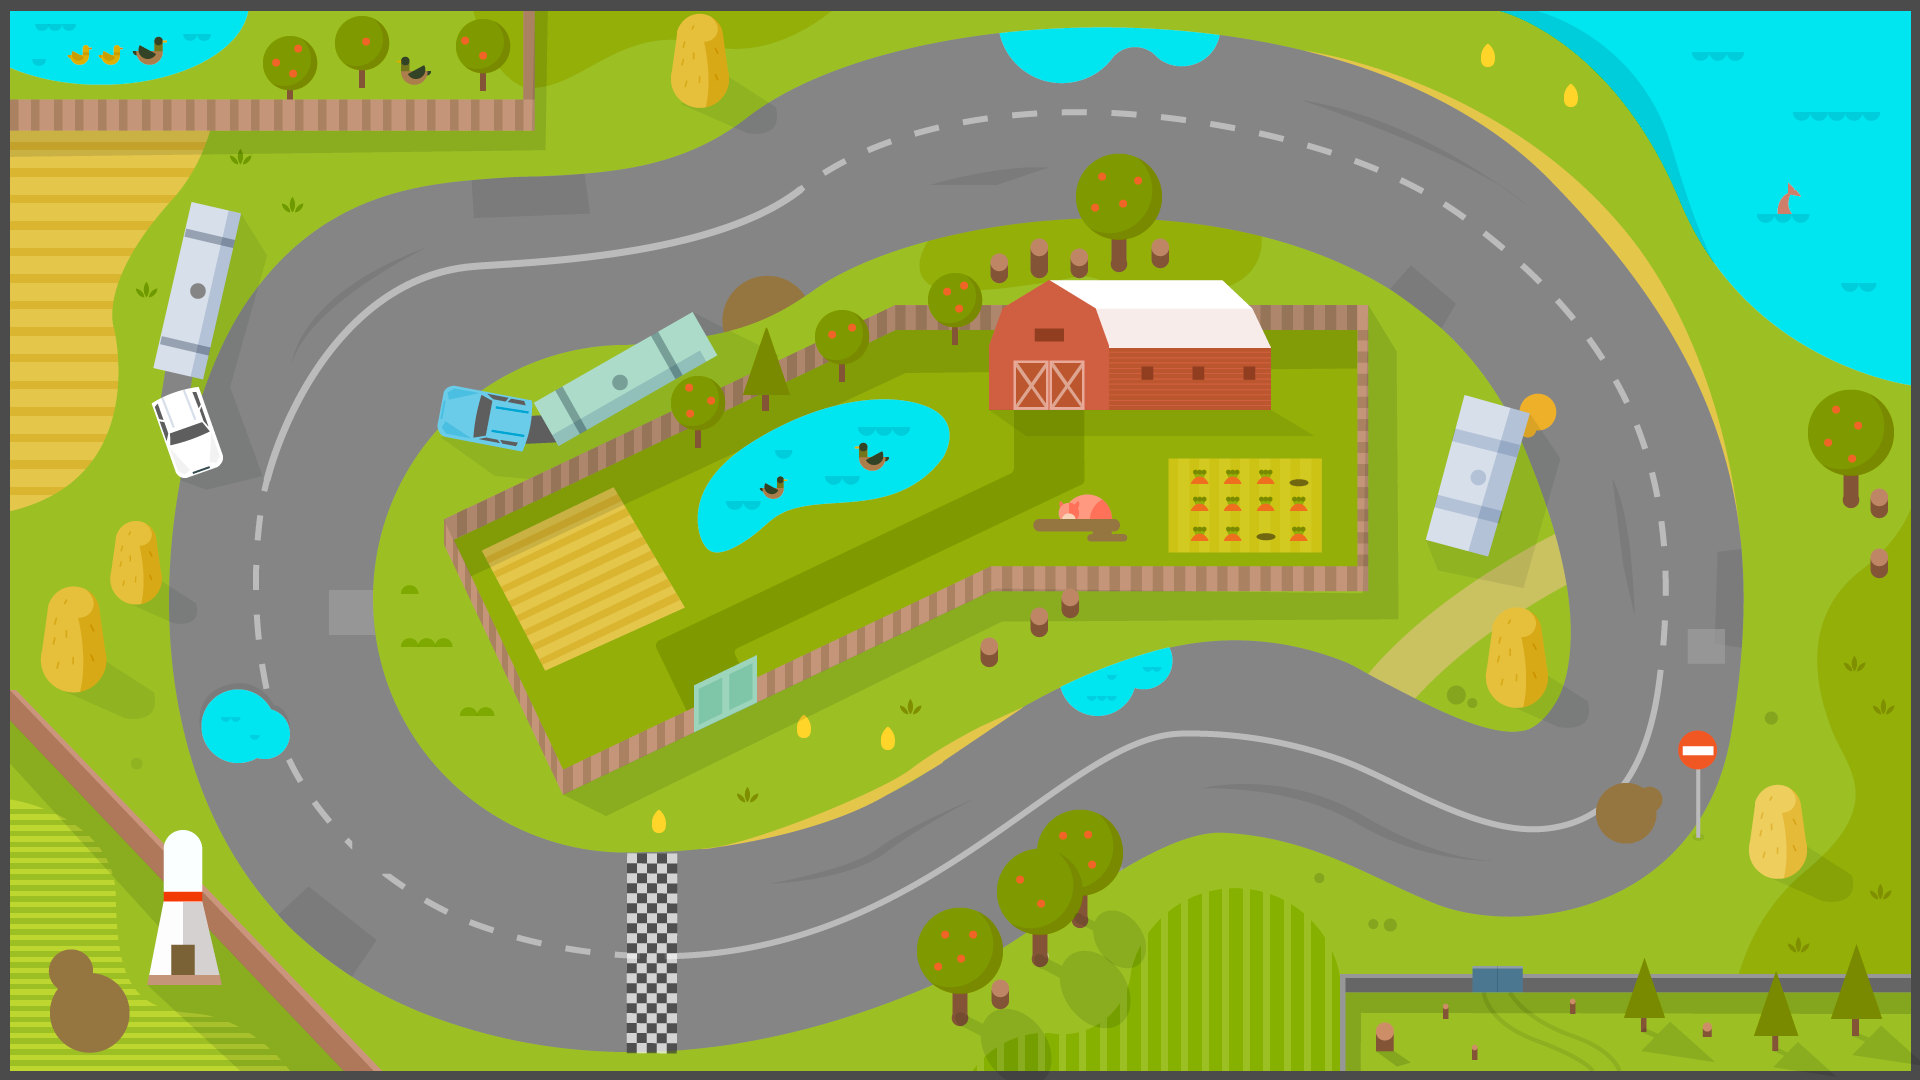
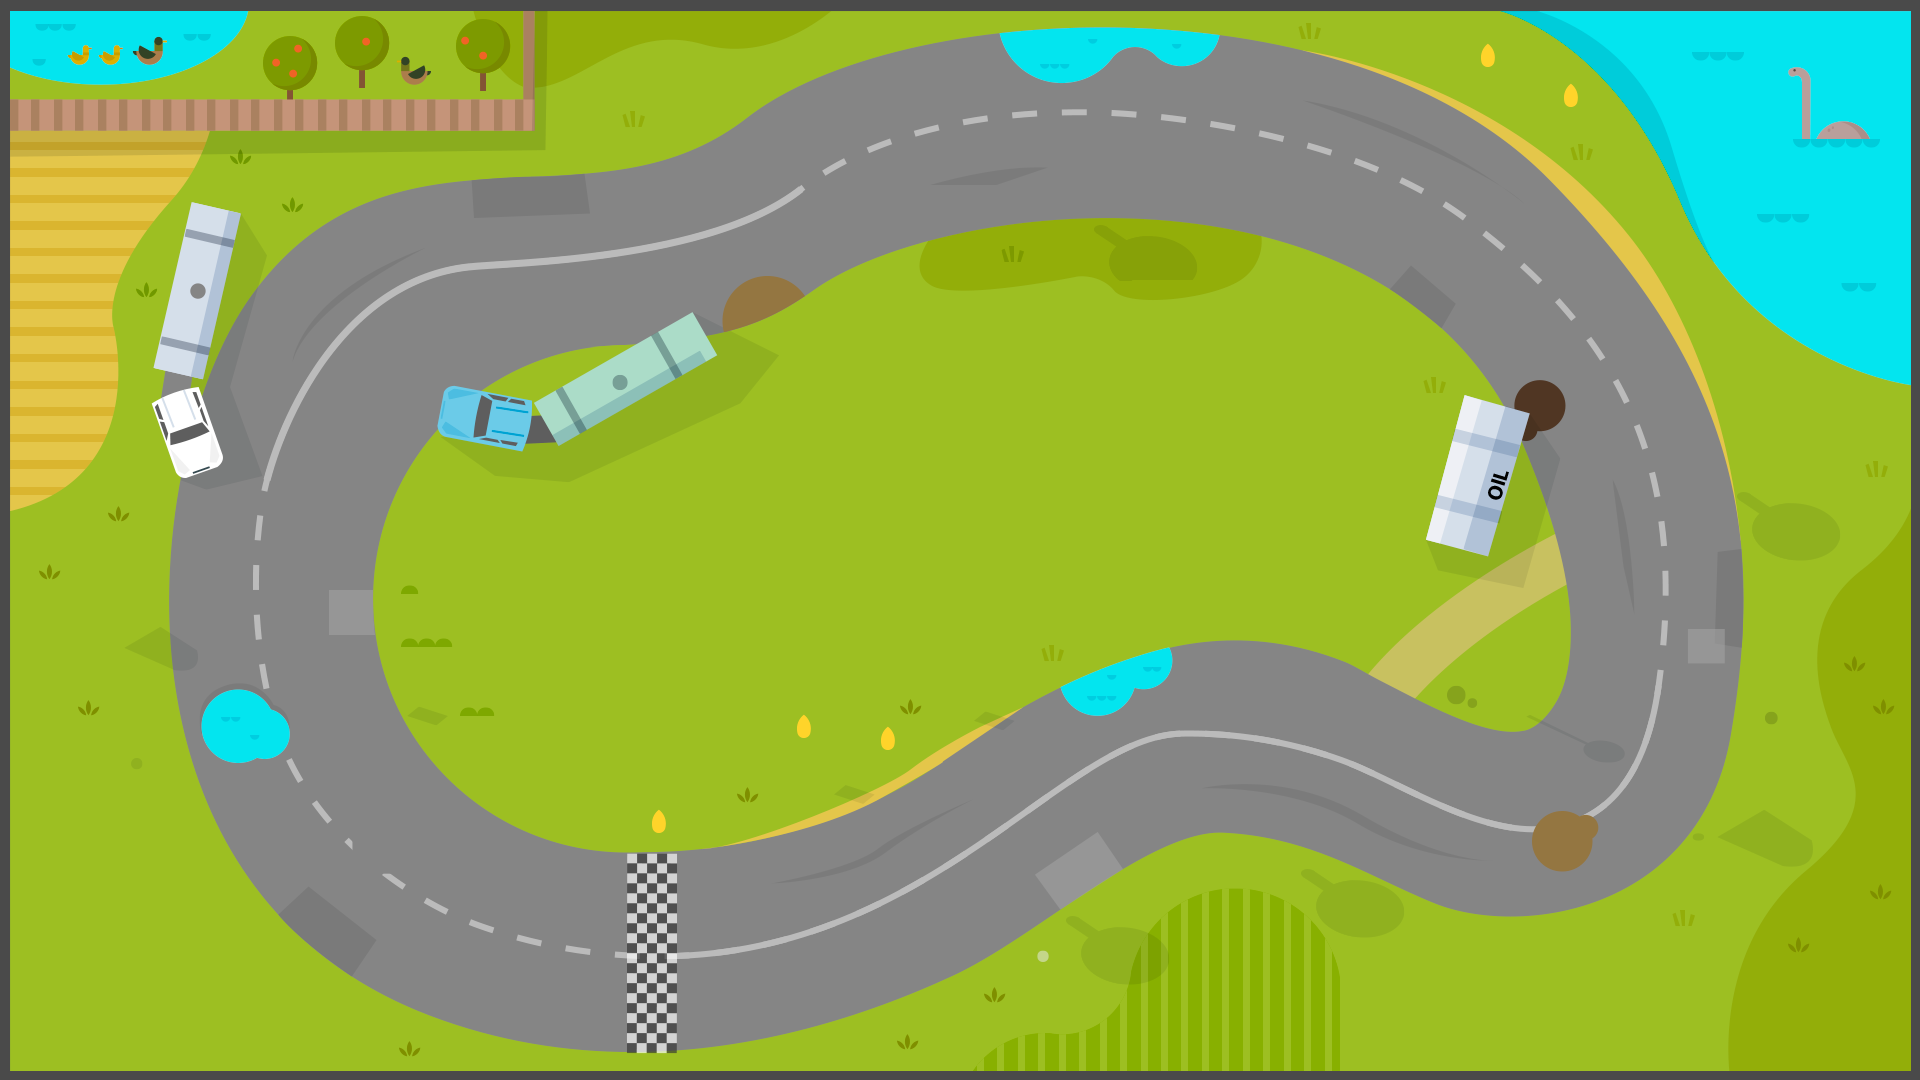
lille refactoring

diff --git a/main.js b/main.js
@@ -23,7 +23,7 @@ function orderCarsOnTheStart(){
 window.onload = function(){
     var Q = window.Q = Quintus({ audioSupported: [ 'mp3' ] }).include("Sprites, Scenes,Anim,UI,Touch,Audio").setup({ width: 1920, height: 1080 }).touch().enableSound();
 
-    Q.load(["arrow.png","wind.png","song.mp3","3.png","1_animation.png","2_animation.png","4_animation.png"], function() {
+    Q.load(["PENEK.png","tree_up.png","tree_right.png","Tree_down_2.png","Tree_down_1.png","SENO_right.png","SENO_keft.png","ZNAK.png","down_left.png","down_right.png","center.png","arrow.png","wind.png","song.mp3","3.png","1_animation.png","2_animation.png","4_animation.png"], function() {
 
         Q.sheet("ment","2_animation.png",{tilew: 90,tileh: 45,sx: 0,sy: 0});
         Q.sheet("car","1_animation.png",{tilew: 75,tileh: 33,sx: 0,sy: 0});
@@ -66,22 +66,6 @@ window.onload = function(){
           }
         });
 
-        Q.Sprite.extend("Wind", {
-            init: function(p) {
-                p = p || {};
-                p.asset = "wind.png";
-                p.points = [[0,0]];
-                p.cx = 166/2;
-                p.cy = 166/2;
-                p.type = Q.SPRITE_UI;
-                p.scale = 1;
-                p.omega = 50;
-                this._super(p);
-            },
-            step: function(dt) {
-                 this.p.angle += dt * (this.p.omega);
-            }
-        });
 
         fbRef.child("cars").on("child_removed", function(snapshot) {
           if(cars[snapshot.key()]){
@@ -102,6 +86,35 @@ window.onload = function(){
                 p.cy = 300;
                 p.scale = 0.03;
                 this._super(p);
+            }
+        });
+
+        Q.Sprite.extend("Decor", {
+            init: function(p) {
+                p = p || {};
+                p.points = [[0,0]];
+                p.cx = 0;
+                p.cy = 0;
+                p.type = Q.SPRITE_UI;
+                p.scale = 1;
+                this._super(p);
+            }
+        });
+
+        Q.Sprite.extend("Wind", {
+            init: function(p) {
+                p = p || {};
+                p.asset = "wind.png";
+                p.points = [[0,0]];
+                p.cx = 166/2;
+                p.cy = 166/2;
+                p.type = Q.SPRITE_UI;
+                p.scale = 1;
+                p.omega = 50;
+                this._super(p);
+            },
+            step: function(dt) {
+                 this.p.angle += dt * (this.p.omega);
             }
         });
 
@@ -242,11 +255,11 @@ window.onload = function(){
 
             //rectangles
             stageAccess.insert(new Q.Wall({w:520,h:120,x:0,y:0})); // top left block
-            stageAccess.insert(new Q.Wall({w:575,h:100,x:1920-575,y:1080-100})); //bottom right block
-            stageAccess.insert(new Q.Wall({w:250,h:700,x:-230,y:1265-450,angle:315})); // bottom left block
+            stageAccess.insert(new Q.Wall({w:575,h:100,x:1920-565,y:1080-80})); //bottom right block
+            stageAccess.insert(new Q.Wall({w:250,h:700,x:-260,y:1265-450,angle:316})); // bottom left block
 
             stageAccess.insert(new Q.Wall({w:500,h:290,x:430,y:520,angle:335})); // middle block1
-            stageAccess.insert(new Q.Wall({w:470,h:280,x:900,y:300})); // middle block2
+            stageAccess.insert(new Q.Wall({w:460,h:260,x:900,y:320})); // middle block2
 
             stageAccess.insert(new Q.Wall({w:50,h:180,x:200,y:200,angle:15}));// truck 1 tail
             stageAccess.insert(new Q.Wall({w:50,h:90,x:153,y:400,angle:345}));//truck 1 head
@@ -256,37 +269,40 @@ window.onload = function(){
 
             stageAccess.insert(new Q.Wall({w:65,h:150,x:1465,y:395,angle:15}));//who knows what is it
 
-            stageAccess.insert(new Q.Circle({x:700,y:80,r:30}));// pile 1 top
-            stageAccess.insert(new Q.Circle({x:1520,y:680,r:30}));// pile 2 middle in middle right
-            stageAccess.insert(new Q.Circle({x:1780,y:850,r:30}));// pile 3 almost bottom right
-            stageAccess.insert(new Q.Circle({x:135,y:580,r:25}));// pile 5 middle left
-            stageAccess.insert(new Q.Circle({x:70,y:650,r:30}));// pile 6 under middle left
+            //stageAccess.insert(new Q.Circle({x:700,y:80,r:30}));// pile 1 top
+            //stageAccess.insert(new Q.Circle({x:1520,y:680,r:30}));// pile 2 middle in middle right
+            stageAccess.insert(new Q.Circle({x:1747,y:820,r:25}));// pile 3 almost bottom right
+            stageAccess.insert(new Q.Circle({x:145,y:633,r:20}));// pile 5 middle left
+            //stageAccess.insert(new Q.Circle({x:70,y:650,r:30}));// pile 6 under middle left
+
+            stageAccess.insert(new Q.Circle({x:1530,y:715,r:5}));// pile 6 under middle left
 
             // 5 trees in row topp in middle
-            stageAccess.insert(new Q.Circle({x:1000,y:275,r:10}));// tree
-            stageAccess.insert(new Q.Circle({x:1040,y:270,r:10}));// tree
-            stageAccess.insert(new Q.Circle({x:1080,y:270,r:10}));// tree
-            stageAccess.insert(new Q.Circle({x:1120,y:265,r:10}));// tree
-            stageAccess.insert(new Q.Circle({x:1160,y:260,r:10}));// tree
+            //stageAccess.insert(new Q.Circle({x:1000,y:275,r:10}));// tree
+            //stageAccess.insert(new Q.Circle({x:1040,y:270,r:10}));// tree
+            //stageAccess.insert(new Q.Circle({x:1080,y:270,r:10}));// tree
+            stageAccess.insert(new Q.Circle({x:1102,y:232,r:5}));// tree
+            //stageAccess.insert(new Q.Circle({x:1160,y:260,r:10}));// tree
 
             // three tree in the middle
-            stageAccess.insert(new Q.Circle({x:990,y:660,r:10}));// tree
-            stageAccess.insert(new Q.Circle({x:1040,y:630,r:10}));// tree
-            stageAccess.insert(new Q.Circle({x:1070,y:610,r:10}));// tree
+            //stageAccess.insert(new Q.Circle({x:990,y:660,r:10}));// tree
+            //stageAccess.insert(new Q.Circle({x:1040,y:630,r:10}));// tree
+            //stageAccess.insert(new Q.Circle({x:1070,y:610,r:10}));// tree
 
             // three tree in the right
-            stageAccess.insert(new Q.Circle({x:1850,y:500,r:10}));// tree
-            stageAccess.insert(new Q.Circle({x:1880,y:510,r:10}));// tree
-            stageAccess.insert(new Q.Circle({x:1880,y:570,r:10}));// tree
+            stageAccess.insert(new Q.Circle({x:1745,y:495,r:5}));// tree
+            //stageAccess.insert(new Q.Circle({x:1880,y:510,r:10}));// tree
+            //stageAccess.insert(new Q.Circle({x:1880,y:570,r:10}));// tree
 
             // 4 trees in row topp in middle
-            stageAccess.insert(new Q.Circle({x:960,y:1020,r:10}));// tree
-            stageAccess.insert(new Q.Circle({x:1000,y:1000,r:10}));// tree
-            stageAccess.insert(new Q.Circle({x:1040,y:960,r:10}));// tree
-            stageAccess.insert(new Q.Circle({x:1080,y:920,r:10}));// tree
+            //stageAccess.insert(new Q.Circle({x:960,y:1020,r:10}));// tree
+            //stageAccess.insert(new Q.Circle({x:1000,y:1000,r:10}));// tree
+            //stageAccess.insert(new Q.Circle({x:1040,y:960,r:10}));// tree
+            stageAccess.insert(new Q.Circle({x:1068,y:920,r:5}));// tree
+            stageAccess.insert(new Q.Circle({x:1305,y:867,r:5}));// tree
 
-            stageAccess.insert(new Q.Wall({counter:true, w:500,h:10,x:1380,y:420}));// tree
-            stageAccess.insert(new Q.Wall({counter:true,w:10,h:500,x:700,y:820,angle:350,finish:true}));// tree
+            stageAccess.insert(new Q.Wall({counter:true, w:500,h:10,x:1380,y:420}));
+            stageAccess.insert(new Q.Wall({counter:true,w:10,h:500,x:700,y:820,angle:350,finish:true}));
 
             stage.insert(new Q.UI.Button({label: "Press to START RACE!",y: 70,x: 1750,fill: "#990000",border: 5,shadow: 10,shadowColor: "rgba(0,0,0,0.5)"}, function() {
               //Q.audio.play('song.mp3');
@@ -309,15 +325,29 @@ window.onload = function(){
             counter();
             }));
 
-          stageAccess.insert(new Q.Wind({x:184,y:850,z:2000}));
         }));
 
 
+        Q.scene("Foreground",new Q.Scene(function(stage) {
+          stage.insert(new Q.Decor({x:434,y:260,asset:"center.png"}));
+          stage.insert(new Q.Decor({x:0,y:695,asset:"down_left.png"}));
+          stage.insert(new Q.Wind({x:174,y:855,z:2}));
+          stage.insert(new Q.Decor({x:1350,y:953,asset:"down_right.png"}));
 
+          stage.insert(new Q.Decor({x:1715,y:750,asset:"SENO_right.png"}));
+          stage.insert(new Q.Decor({x:114,y:570,asset:"SENO_keft.png"}));
+          stage.insert(new Q.Decor({x:1510,y:610,asset:"ZNAK.png"}));
+          stage.insert(new Q.Decor({x:1700,y:380,asset:"tree_right.png"}));
+          stage.insert(new Q.Decor({x:1060,y:118,asset:"tree_up.png"}));
+          stage.insert(new Q.Decor({x:1350,y:953,asset:"PENEK.png"}));
+          stage.insert(new Q.Decor({x:1027,y:808,asset:"Tree_down_1.png"}));
+          stage.insert(new Q.Decor({x:1262,y:755,asset:"Tree_down_2.png"}));
+        }));
 
-        Q.stageScene("Race");
+        Q.stageScene("Race",0);
+        Q.stageScene("Foreground",1);
 
-        /*
+/*
         Q.debug = true;
         Q.debugFill = true;
         //*/
